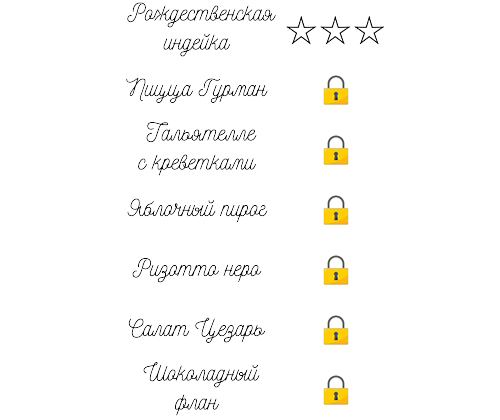
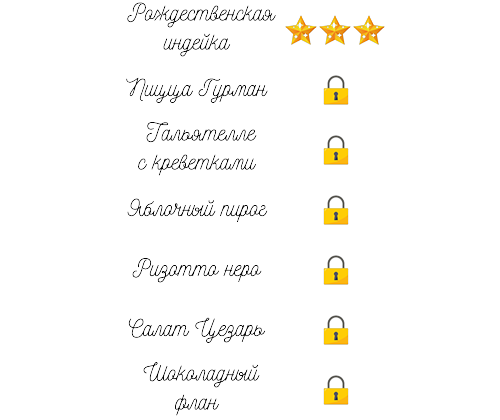
Счёт корректен

Changed region(s): [[0.57, 0.031, 0.78, 0.1238]]

diff --git a/game.py b/game.py
@@ -53,8 +53,19 @@ def info_from_csv(fname):
         pictures = list(map(lambda x: ''.join(x) + '.png', reader))[1:]
         blocked = list(filter(lambda x: x[0] == '1', pictures))
         blocked = list(map(lambda x: int(x[1:3]), blocked))
+        print(pictures, len(pictures), blocked)
         return pictures, len(pictures), blocked
 
+def result_to_csv(dish, score):
+    with open(os.path.join('data', 'menu_info.csv'), 'r', encoding="utf8", ) as csvfile:
+            reader = list(csv.reader(csvfile, delimiter=';', quotechar='"'))
+            for i in range(1, len(reader)):
+                if int(reader[i][1]) == dish and score > int(reader[i][2]):
+                    reader[i] = ['0', '0'+ str(dish), str(score)]
+    with open(os.path.join('data', 'menu_info.csv'), 'w', newline="") as csvwr:
+        writer = csv.writer(csvwr, delimiter=';', quotechar='"')
+        for line in reader:
+            writer.writerow(line)
 
 def merge_images(pictures):
     images = []
@@ -1289,12 +1300,14 @@ def ending():
     intro_rect.y = 100
 
     res_score = score / maxscore
-    if res_score >= 0.75:
-        pass
-    elif res_score > 0.5 and res_score < 0.75:
-        pass
+    if res_score >= 0.9:
+        result_to_csv(namelevel, 3)
+    elif res_score >= 0.65 and res_score < 0.8:
+        result_to_csv(namelevel, 2)
+    elif res_score >= 0.45 and res_score < 0.65:
+        result_to_csv(namelevel, 1)
     else:
-        pass
+        result_to_csv(namelevel, 0)
 
     screen.blit(string_rendered, intro_rect)
 
@@ -1397,6 +1410,7 @@ while running:
         a = menu()
         if game_running:
             namelevel = a
+            print(namelevel)
         continue
     if game_running:
         pygame.mixer.music.load('data/vitas.mp3')
